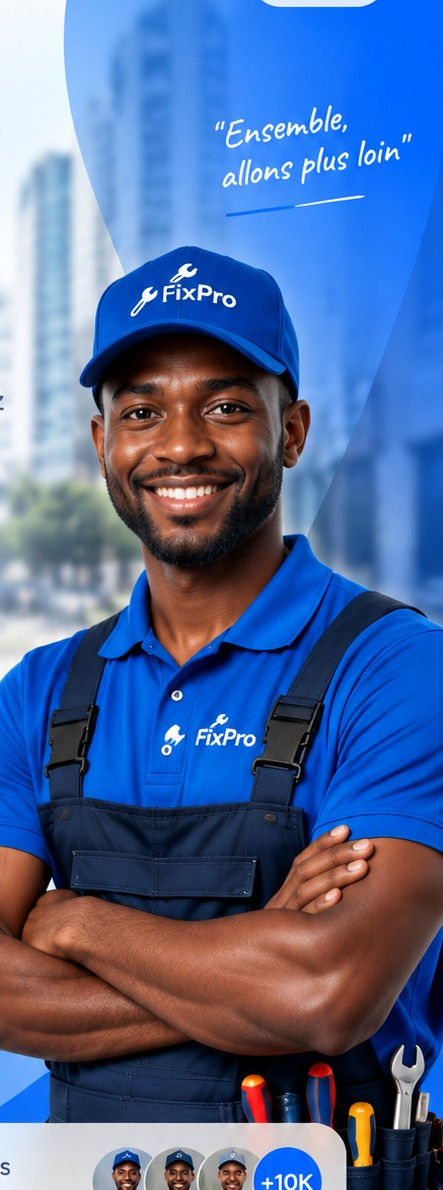
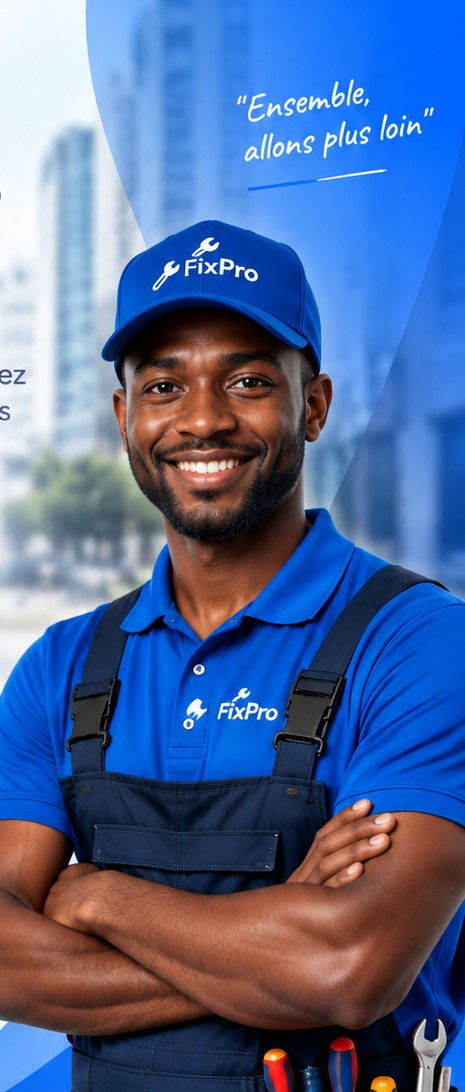
Ecran /devenir-technicien : personnage complet, taille moderee
Retour client : on doit voir le technicien EN ENTIER (casquette, bras
croises, ceinture a outils avec la cle), et il ne doit pas etre zoome
au point de recouvrir l'interface.

- nouveau recadrage `(476,176,941,1268)` de la maquette : personnage
  complet cap -> outils, sans le "Passer" ni la carte cuits dans l'image
- .dt-photo repasse en <img> (plus de background cover qui zoomait) :
  width ~50-55%, cale sur le bas (bottom clamp) pour que la cle et les
  tournevis depassent juste au-dessus de la carte, comme la maquette
- carte "Des milliers de techniciens / nous font deja confiance"
  elargie (texte sur 2 lignes propres), avatars plus compacts
- colonnes de texte elargies (le personnage plus petit liberе de la place)
- toujours 1 seul ecran sans scroll ; verifie 720/812/900 px

Frontend only. Tests : 115 passed.

diff --git a/templates/devenir_technicien.html b/templates/devenir_technicien.html
@@ -48,21 +48,15 @@
       z-index: 0; pointer-events: none;
     }
 
-    /* --- Visuel technicien : grand, bord droit à fond, occupe toute la
-           hauteur (du haut jusqu'en bas de la composition), fondu doux
-           vers la gauche et vers le bas pour se fondre au décor --- */
+    /* --- Visuel technicien : le personnage COMPLET (casquette, bras
+           croisés, ceinture à outils) sur la partie droite, fondu doux
+           vers la gauche. Taille modérée : il ne recouvre pas l'interface. --- */
     .dt-photo {
-      position: absolute; top: 0; right: 0; bottom: 0; z-index: 1; pointer-events: none;
-      width: clamp(58%, 62vw, 64%); max-width: 310px;
-      background: url("{{ url_for('static', filename='img/devenir-technicien-hero.jpg') }}") right top / auto 100% no-repeat;
-      -webkit-mask-image:
-        linear-gradient(90deg, transparent 0, transparent 2%, rgba(0,0,0,.55) 26%, #000 48%, #000 100%),
-        linear-gradient(180deg, #000 0, #000 84%, transparent 99%);
-              mask-image:
-        linear-gradient(90deg, transparent 0, transparent 2%, rgba(0,0,0,.55) 26%, #000 48%, #000 100%),
-        linear-gradient(180deg, #000 0, #000 84%, transparent 99%);
-      -webkit-mask-composite: source-in;
-              mask-composite: intersect;
+      position: absolute; right: 0; z-index: 1; pointer-events: none;
+      bottom: clamp(150px, 22vh, 190px);
+      width: clamp(49%, 53vw, 55%); max-width: 264px; height: auto;
+      -webkit-mask-image: linear-gradient(90deg, transparent 0, transparent 2%, rgba(0,0,0,.5) 22%, #000 44%, #000 100%);
+              mask-image: linear-gradient(90deg, transparent 0, transparent 2%, rgba(0,0,0,.5) 22%, #000 44%, #000 100%);
     }
 
     /* --- En-tête --- */
@@ -102,21 +96,21 @@
     /* --- Titre + accroche --- */
     .dt-hero { position: relative; z-index: 3; flex-shrink: 0; }
     .dt-hero h1 {
-      margin: 0; padding-right: 37%;
+      margin: 0; padding-right: 34%;
       font-size: clamp(1.3rem, 3.8vh, 1.85rem); font-weight: 900; line-height: 1.1;
       letter-spacing: -.025em; color: var(--dt-ink);
       overflow-wrap: break-word;
     }
     .dt-hero h1 .b { color: var(--dt-blue); white-space: nowrap; }
     .dt-hero p {
-      margin: clamp(8px, 1.5vh, 14px) 0 0; padding-right: 45%;
+      margin: clamp(8px, 1.5vh, 14px) 0 0; padding-right: 42%;
       font-size: clamp(.82rem, 1.8vh, .95rem); line-height: 1.45; color: var(--dt-muted);
     }
 
     /* --- Avantages --- */
     .dt-benefits {
       position: relative; z-index: 3; flex-shrink: 0; list-style: none;
-      margin: clamp(13px, 2.4vh, 22px) 0 0; padding: 0 43% 0 0;
+      margin: clamp(13px, 2.4vh, 22px) 0 0; padding: 0 40% 0 0;
       display: flex; flex-direction: column; gap: clamp(7px, 1.7vh, 15px);
     }
     .dt-benefits li { display: flex; gap: 12px; align-items: flex-start; }
@@ -139,26 +133,26 @@
            de l'écran sur les grands téléphones. --- */
     .dt-social {
       position: relative; z-index: 6;
-      margin: auto 28px clamp(9px, 1.6vh, 15px) 0;
-      background: #fff; border-radius: 16px; padding: clamp(10px, 1.7vh, 14px) 14px;
+      margin: auto 10px clamp(9px, 1.5vh, 14px) 0;
+      background: #fff; border-radius: 16px; padding: clamp(10px, 1.6vh, 13px) 13px;
       box-shadow: 0 16px 36px rgba(11,27,59,.16);
-      display: flex; align-items: center; gap: 11px; flex-shrink: 0;
+      display: flex; align-items: center; gap: 10px; flex-shrink: 0;
     }
     .dt-social-ic {
       flex-shrink: 0;
-      width: clamp(34px, 5vh, 40px); height: clamp(34px, 5vh, 40px);
-      border-radius: 11px; background: #EEF3FE; color: var(--dt-blue);
+      width: clamp(32px, 4.6vh, 38px); height: clamp(32px, 4.6vh, 38px);
+      border-radius: 10px; background: #EEF3FE; color: var(--dt-blue);
       display: flex; align-items: center; justify-content: center;
     }
     .dt-social-ic svg { width: 52%; height: 52%; }
-    .dt-social-tx { flex: 1; min-width: 0; font-size: clamp(.78rem, 1.6vh, .84rem); line-height: 1.3; color: var(--dt-ink); }
+    .dt-social-tx { flex: 1; min-width: 0; font-size: clamp(.77rem, 1.55vh, .83rem); line-height: 1.28; color: var(--dt-ink); }
     .dt-social-tx b { display: block; color: var(--dt-blue); font-weight: 800; }
     .dt-avatars { flex-shrink: 0; display: flex; align-items: center; }
-    .dt-avatars img { height: clamp(26px, 4vh, 32px); width: auto; border-radius: 999px; }
+    .dt-avatars img { height: clamp(24px, 3.6vh, 28px); width: auto; border-radius: 999px; }
     .dt-plus {
-      margin-left: -10px; min-width: clamp(30px, 4.6vh, 36px); height: clamp(30px, 4.6vh, 36px); padding: 0 5px;
+      margin-left: -9px; min-width: clamp(28px, 4vh, 32px); height: clamp(28px, 4vh, 32px); padding: 0 4px;
       border-radius: 999px; background: var(--dt-blue); color: #fff;
-      font-size: clamp(.58rem, 1.3vh, .64rem); font-weight: 800;
+      font-size: clamp(.55rem, 1.2vh, .62rem); font-weight: 800;
       display: flex; align-items: center; justify-content: center; border: 2px solid #fff;
     }
 
@@ -192,13 +186,13 @@
     }
     /* Écrans peu hauts : on resserre pour rester sans scroll */
     @media (max-height: 780px) {
-      .dt-photo { width: clamp(52%, 55vw, 57%); }
-      .dt-benefits { gap: clamp(6px, 1.4vh, 12px); }
+      .dt-photo { width: clamp(47%, 50vw, 52%); bottom: clamp(140px, 20vh, 172px); }
+      .dt-benefits { gap: clamp(6px, 1.3vh, 11px); }
     }
     @media (max-height: 680px) {
       .dt-hero h1 { font-size: clamp(1.18rem, 5.2vw, 1.4rem); }
-      .dt-b-tx span { font-size: .76rem; line-height: 1.28; }
-      .dt-photo { width: clamp(49%, 51vw, 53%); }
+      .dt-b-tx span { font-size: .76rem; line-height: 1.26; }
+      .dt-photo { width: clamp(44%, 47vw, 49%); }
     }
     @media (min-width: 700px) {
       .dt-cta, .dt-cta-foot { max-width: 440px; margin-left: auto; margin-right: auto; }
@@ -207,8 +201,8 @@
 </head>
 <body>
   <div class="dt">
-    <div class="dt-photo" role="img"
-         aria-label="Technicien FixPro, bras croisés, casquette et bleu de travail FixPro"></div>
+    <img class="dt-photo" src="{{ url_for('static', filename='img/devenir-technicien-hero.jpg') }}"
+         alt="Technicien FixPro, bras croisés, casquette et bleu de travail FixPro" />
 
     <header class="dt-head">
       <span class="dt-logo">
